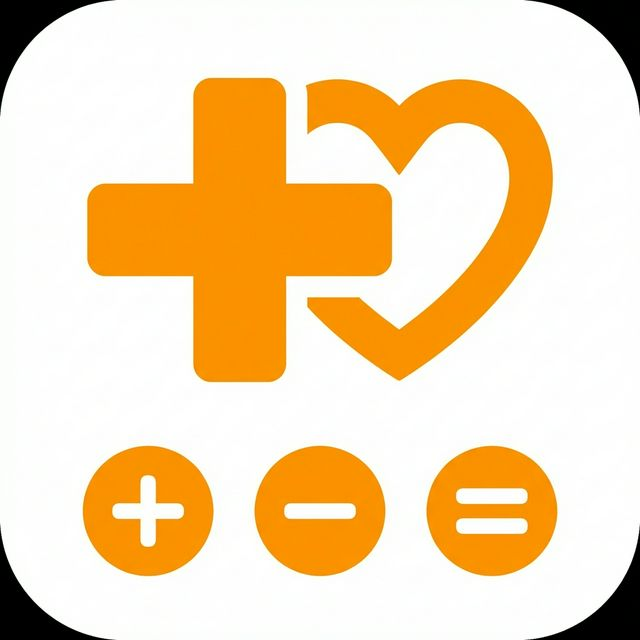
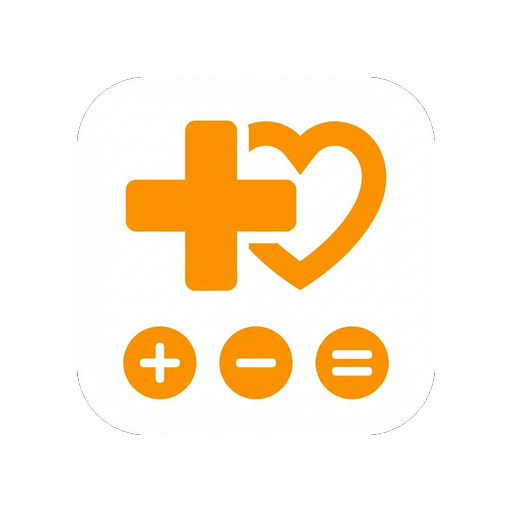
아이콘업데이트

diff --git a/www/index.html b/www/index.html
@@ -8,7 +8,7 @@
     <link rel="stylesheet" href="style.css">
     <link rel="manifest" href="manifest.json">
     <link rel="icon" type="image/png" href="icon-192.png">
-    <link rel="apple-touch-icon" href="icon-192.png">
+    <link rel="apple-touch-icon" href="icon-ios.png">
     <link href="https://fonts.googleapis.com/css2?family=Inter:wght@400;500;600;700&display=swap" rel="stylesheet">
 </head>
 
